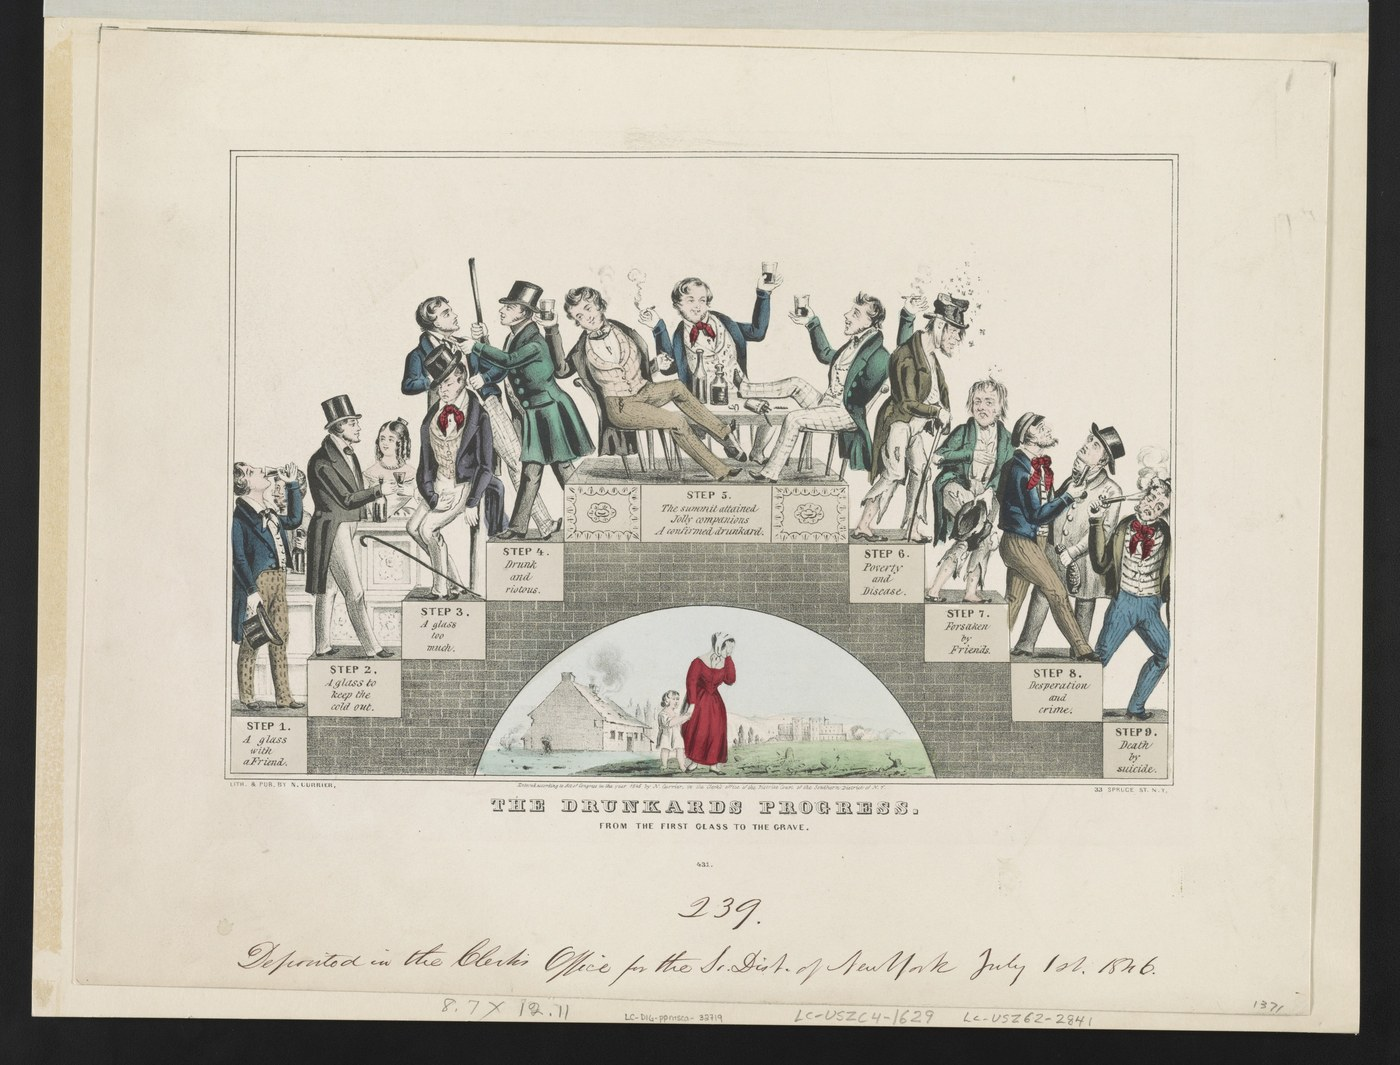
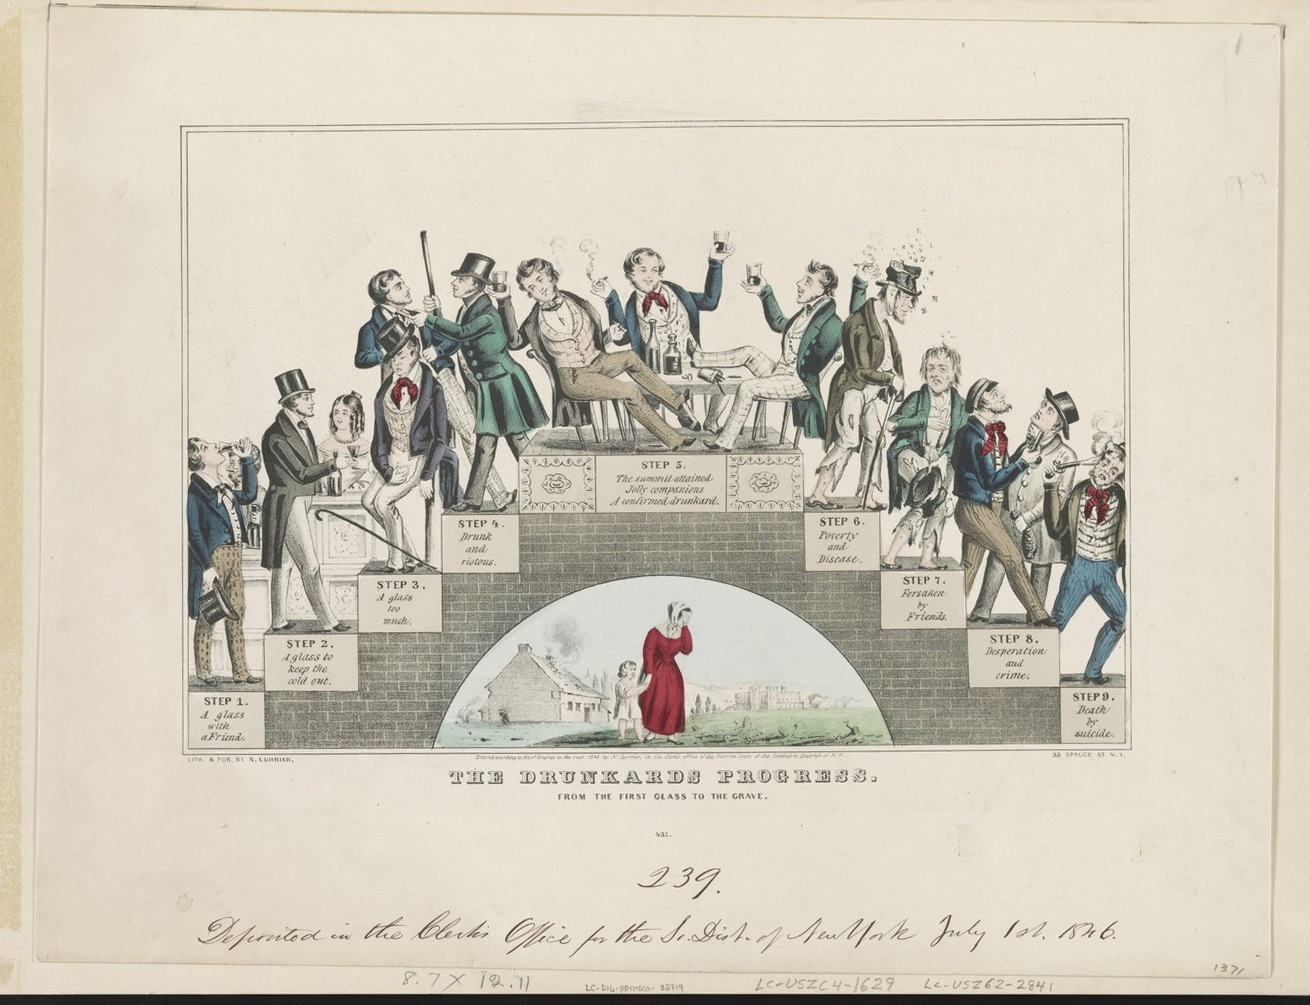
Add files via upload

diff --git a/chapter-15.html b/chapter-15.html
@@ -82,7 +82,7 @@ textarea:focus{outline:none;border-color:#efcf98 !important}
       <div style="display:flex;gap:22px;align-items:center;color:#f2efe9">
         <div><div style="font-family:'Inter Tight',sans-serif;font-weight:300;font-size:30px">7</div><div style="font-family:'Inter',sans-serif;font-size:12px;color:#e8e4dc">Interactives</div></div>
         <div style="width:1px;height:38px;background:rgba(255,255,255,.25)"></div>
-        <div><div style="font-family:'Inter Tight',sans-serif;font-weight:300;font-size:30px">10</div><div style="font-family:'Inter',sans-serif;font-size:12px;color:#e8e4dc">Images</div></div>
+        <div><div style="font-family:'Inter Tight',sans-serif;font-weight:300;font-size:30px">14</div><div style="font-family:'Inter',sans-serif;font-size:12px;color:#e8e4dc">Images</div></div>
       </div>
     </div>
   </div>
@@ -648,23 +648,29 @@ class Component extends DCLogic {
     const img = (key, ratio, maxW, caption, credit) => ({ isImage: true, slot: 'c15-' + key, src: '' + key + '.jpg', ratio, maxW, caption, credit: credit ? 'Credit: ' + credit : '', hasCredit: !!credit });
     const F = {
       timeline: img("reform-timeline", "1400/668", "760px", "Figure 15.1 · Reform and its opponents, 1829–1851, by the dates this chapter gives.", 'Figure by the author'),
-      eighth: img("one-in-eight", "1400/429", "640px", "Figure 15.2 · More than five million immigrants came between 1820 and 1860; by the Civil War about one American in eight had been born abroad.", 'Figure by the author'),
-      alcohol: img("alcohol-1830", "1400/775", "600px", "Figure 15.3 · By 1830 the average American adult drank more than seven gallons of pure alcohol a year, more than three times today’s figure.", 'Figure by the author'),
-      drunkard: img("drunkards-progress", "1400/1065", "720px", "Figure 15.4 · Nathaniel Currier’s The Drunkard’s Progress (1846): nine steps up to the glass with friends and down to “Death by suicide,” with a wife and child weeping beneath the arch. Currier sold it as a commercial print, adapted from a John Warner Barber engraving of 1826, to hang on a wall like a sermon.", "Library of Congress, Prints and Photographs Division, LC-DIG-ppmsca-32719"),
-      walker: img("walkers-appeal", "1400/1232", "640px", "Figure 15.5 · The title page and frontispiece of an 1848 edition of David Walker’s Appeal, published nearly two decades after the pamphlet of 1829 with a sketch of his life by Henry Highland Garnet.", "Library of Congress, LC-DIG-ds-17775"),
-      liberator: img("liberator-no1", "1400/1951", "480px", "Figure 15.6 · The Liberator, vol. 1, no. 1, Boston, January 1, 1831: the first issue of the weekly William Lloyd Garrison published with Isaac Knapp.", "Library of Congress, Chronicling America"),
-      douglass: img("douglass-1845", "1400/1763", "400px", "Figure 15.7 · Frederick Douglass in the engraving that served as the frontispiece of his Narrative in 1845.", "Library of Congress, Prints and Photographs Division, LC-USZ62-50473"),
-      tubman: img("tubman-lindsley", "1400/2194", "380px", "Figure 15.8 · Harriet Tubman, photographed by Harvey B. Lindsley, probably in Auburn, New York, and probably between 1871 and 1876, in a print made decades later.", "Library of Congress and National Museum of African American History and Culture, LC-DIG-ppmsca-54232"),
-      cinquez: img("cinquez-1839", "1400/1838", "420px", "Figure 15.9 · “Joseph Cinquez,” as a printer pictured Cinque in 1839 while the Amistad captives awaited trial in New Haven. The speech printed beneath the portrait is attributed to him.", "Library of Congress, Prints and Photographs Division, LC-DIG-ppmsca-31280"),
-      sentiments: img("declaration-sentiments", "1086/1846", "400px", "Figure 15.10 · The Declaration of Sentiments as printed in the Report of the Seneca Falls convention, Rochester, 1848. “All men and women are created equal” appears in the second paragraph.", "Library of Congress, Rare Book and Special Collections Division, National American Woman Suffrage Association Collection")
+      eighth: img("one-in-eight", "1400/429", "640px", "Figure 15.15 · More than five million immigrants came between 1820 and 1860; by the Civil War about one American in eight had been born abroad.", 'Figure by the author'),
+      printing: img("press-destruction-1833", "1800/1305", "720px", "Figure 15.2 · The destruction of the Mormon printing office at Independence, Missouri, July 1833, in a painted photograph made for Rinehart & Co.’s Parlor Photo Car. The mount names C. B. Hancock as designer and executor; Wikimedia Commons lists the work as C. C. A. Christensen’s, c. 1882.", "Wikimedia Commons (public domain)"),
+      boggs: img("boggs-hawkins-letter", "500/628", "380px", "Figure 15.3 · Governor Lilburn W. Boggs to Col. Joseph Hawkins, October 26, 1838, ordering two thousand militia raised on reports that Latter-day Saints had burned Gallatin and driven settlers from Daviess County. Boggs issued the Extermination Order the next day.", "L. Tom Perry Special Collections, Brigham Young University, Joseph Hawkins papers, Vault MSS 724 (public domain)"),
+      order: img("extermination-order-1838", "1753/1313", "860px", "Figure 15.4 · The Extermination Order: Governor Lilburn W. Boggs to Maj. Gen. John B. Clark, October 27, 1838, both pages. The sentence ordering that the Latter-day Saints be “exterminated or driven from the State” begins in the middle of the first page.", "Missouri State Archives, Governors’ Records (public domain)"),
+      ticket: img("smith-rigdon-ticket-1844", "574/886", "420px", "Figure 15.6 · The head of the 1844 ticket: Joseph Smith “of Nauvoo, Illinois” for president and Sidney Rigdon for vice president, above the motto Super hanc petram aedificabo, “upon this rock I will build.” Reproduced from a printed campaign pamphlet.", "Wikimedia Commons (public domain)"),
+      temple: img("nauvoo-temple-1890", "1428/2207", "520px", "Figure 15.5 · “Joseph Smith’s Original Temple, Nauvoo, Ills.,” a lithograph copyrighted in 1890 by Chester B. Dike, more than four decades after the building burned in November 1848.", "Library of Congress, Prints and Photographs Division, cph 3a09124 (public domain)"),
+      alcohol: img("alcohol-1830", "1400/775", "600px", "Figure 15.7 · By 1830 the average American adult drank more than seven gallons of pure alcohol a year, more than three times today’s figure.", 'Figure by the author'),
+      drunkard: img("drunkards-progress", "1310/1005", "720px", "Figure 15.8 · Nathaniel Currier’s The Drunkard’s Progress (1846): nine steps up to the glass with friends and down to “Death by suicide,” with a wife and child weeping beneath the arch. Currier sold it as a commercial print, adapted from a John Warner Barber engraving of 1826, to hang on a wall like a sermon.", "Library of Congress, Prints and Photographs Division, LC-DIG-ppmsca-32719"),
+      walker: img("walkers-appeal", "1400/1232", "640px", "Figure 15.9 · The title page and frontispiece of an 1848 edition of David Walker’s Appeal, published nearly two decades after the pamphlet of 1829 with a sketch of his life by Henry Highland Garnet.", "Library of Congress, LC-DIG-ds-17775"),
+      liberator: img("liberator-no1", "1320/1890", "480px", "Figure 15.10 · The Liberator, vol. 1, no. 1, Boston, January 1, 1831: the first issue of the weekly William Lloyd Garrison published with Isaac Knapp.", "Library of Congress, Chronicling America"),
+      douglass: img("douglass-1845", "1400/1763", "400px", "Figure 15.11 · Frederick Douglass in the engraving that served as the frontispiece of his Narrative in 1845.", "Library of Congress, Prints and Photographs Division, LC-USZ62-50473"),
+      tubman: img("tubman-lindsley", "1400/2194", "380px", "Figure 15.12 · Harriet Tubman, photographed by Harvey B. Lindsley, probably in Auburn, New York, and probably between 1871 and 1876, in a print made decades later.", "Library of Congress and National Museum of African American History and Culture, LC-DIG-ppmsca-54232"),
+      cinquez: img("cinquez-1839", "1400/1838", "420px", "Figure 15.13 · “Joseph Cinquez,” as a printer pictured Cinque in 1839 while the Amistad captives awaited trial in New Haven. The speech printed beneath the portrait is attributed to him.", "Library of Congress, Prints and Photographs Division, LC-DIG-ppmsca-31280"),
+      sentiments: img("declaration-sentiments", "1086/1846", "400px", "Figure 15.14 · The Declaration of Sentiments as printed in the Report of the Seneca Falls convention, Rochester, 1848. “All men and women are created equal” appears in the second paragraph.", "Library of Congress, Rare Book and Special Collections Division, National American Woman Suffrage Association Collection")
     };
     const TQ = ['What does the law say?', 'What do the morals mandate?', 'Who holds the power?'];
     const lmp3 = (key, conflict) => ({ isLMP: true, conflict, qs: TQ.map((text, i) => ({ text, val: s.notes[key + i] || '', onChange: e => this.setNote(key + i, e.target.value) })) });
     const segsOf = text => { const mk = (d && d.fn && d.fn[text]) || []; if (!mk.length) return [{ t: text, hasN: false }]; const o = []; let last = 0; mk.forEach(([off, k]) => { o.push({ t: text.slice(last, off), hasN: true, n: String(k), id: 'fnref-' + k, aria: 'Note ' + k, open: () => this.setState({ fn: k }) }); last = off; }); if (last < text.length) o.push({ t: text.slice(last), hasN: false }); return o; };
     const inserts = {
       'Context, 1820 — Three Engines': { pre: [F.timeline], 0: [{ isEngines: true }] },
-      'Immigrants and Nativists': { 0: [F.eighth] },
-      'A War of Extermination': { 3: [{ isMissouri: true }] },
+      'A War of Extermination': { 0: [F.boggs], 1: [F.order], 3: [{ isMissouri: true }] },
+      'Zion in Jackson County': { 1: [F.printing] },
+      'Washington and Nauvoo': { 1: [F.temple, F.ticket] },
       'The Temperance Movement': { pre: [F.alcohol], 0: [F.drunkard, { isTemper: true }] },
       'Immediatism': { 0: [F.walker], 1: [F.liberator] },
       'Two Strategies': { pre: [F.douglass], 0: [{ isStrategies: true }] },
